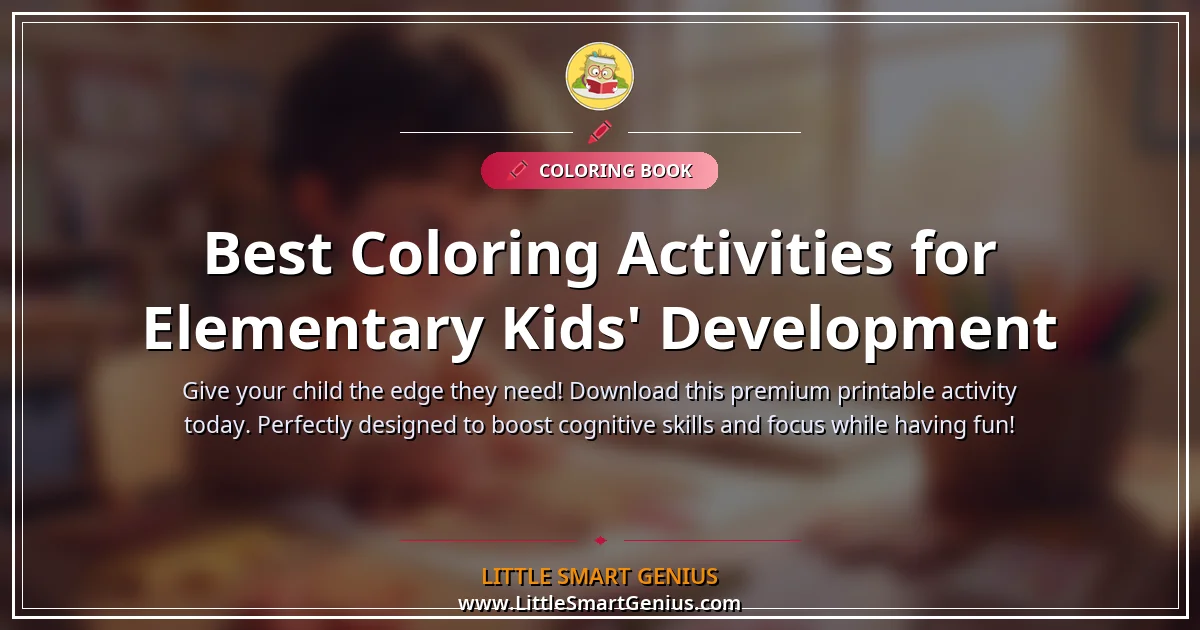
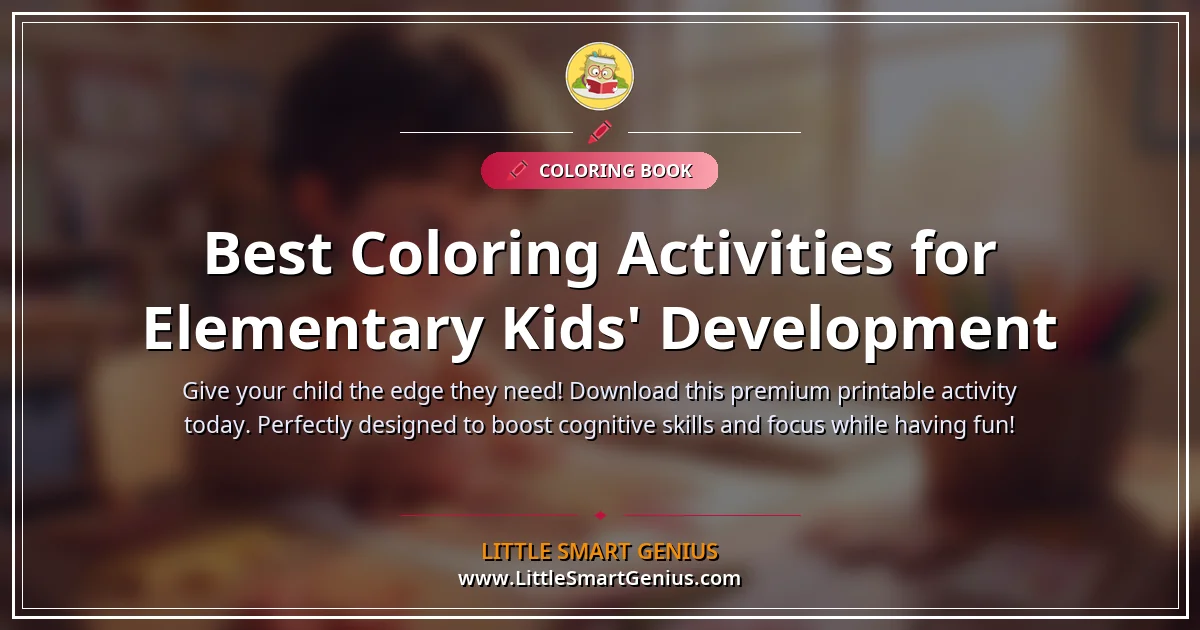
chore: Move OG image brand and URL up to prevent overlapping bottom frame

Changed region(s): [[0.3392, 0.8143, 0.6475, 0.9952]]

diff --git a/scripts/generate_og_images.py b/scripts/generate_og_images.py
@@ -319,7 +319,7 @@ def _draw_dynamic_title(draw: ImageDraw.Draw, title: str, start_y: int, max_h: i
     return current_y
 
 def _draw_bottom(draw: ImageDraw.Draw, img: Image.Image, fonts: dict, color1: tuple):
-    y_bar = H - 90  # Moved back down since frame is at 12px
+    y_bar = H - 115  # Moved up to give more breathing room from the bottom frame
     _draw_rule(draw, img, y_bar, color1)
     
     brand_text = "LITTLE SMART GENIUS"
